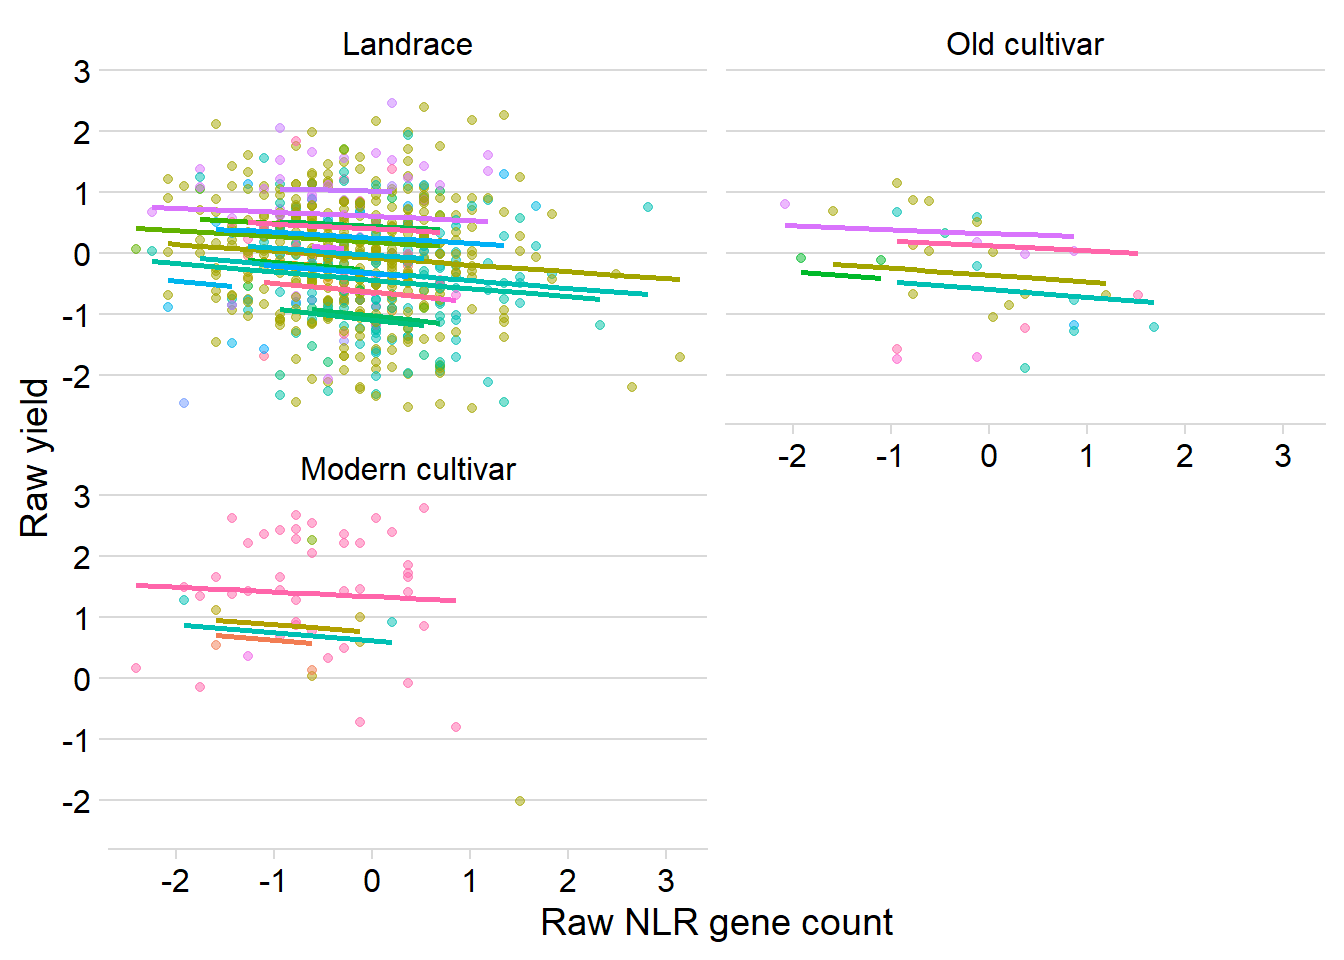
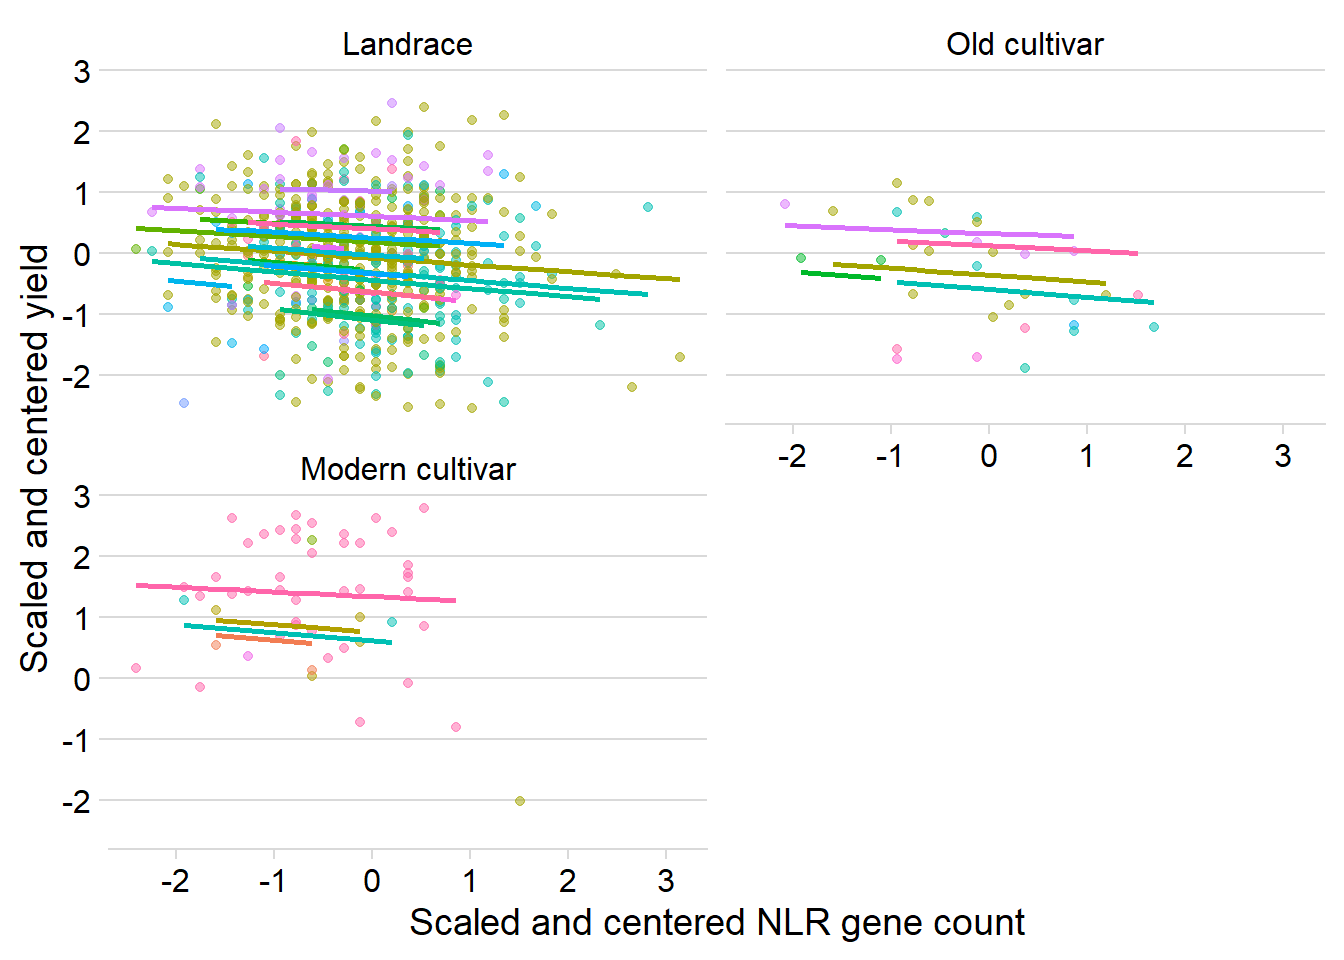
Build site.

Changed region(s): [[0.3125, 0.9375, 0.7812, 1.0], [0.0, 0.25, 0.0625, 0.7188]]

diff --git a/docs/yield_link.html b/docs/yield_link.html
@@ -413,7 +413,7 @@ div.tocify {
 <div class="tab-content">
 <div id="summary" class="tab-pane fade in active">
 <p>
-<strong>Last updated:</strong> 2020-11-02
+<strong>Last updated:</strong> 2020-11-04
 </p>
 <p>
 <strong>Checks:</strong> <span class="glyphicon glyphicon-ok text-success" aria-hidden="true"></span> 7 <span class="glyphicon glyphicon-exclamation-sign text-danger" aria-hidden="true"></span> 0
@@ -504,16 +504,16 @@ This reproducible <a href="http://rmarkdown.rstudio.com">R Markdown</a> analysis
 <div class="panel panel-default">
 <div class="panel-heading">
 <p class="panel-title">
-<a data-toggle="collapse" data-parent="#workflowr-checks" href="#strongRepositoryversionstrongahrefhttpsgithubcomphilippbayerRgeneanalysistreebe2f299c9104413593c977fd19f3be4790bf97cdtargetblankbe2f299a"> <span class="glyphicon glyphicon-ok text-success" aria-hidden="true"></span> <strong>Repository version:</strong> <a href="https://github.com/philippbayer/R_gene_analysis/tree/be2f299c9104413593c977fd19f3be4790bf97cd" target="_blank">be2f299</a> </a>
+<a data-toggle="collapse" data-parent="#workflowr-checks" href="#strongRepositoryversionstrongahrefhttpsgithubcomphilippbayerRgeneanalysistree2d9c3db82be5910c240bb90a3f36de6d7e5813a5targetblank2d9c3dba"> <span class="glyphicon glyphicon-ok text-success" aria-hidden="true"></span> <strong>Repository version:</strong> <a href="https://github.com/philippbayer/R_gene_analysis/tree/2d9c3db82be5910c240bb90a3f36de6d7e5813a5" target="_blank">2d9c3db</a> </a>
 </p>
 </div>
[2 lines of base64/hex data omitted]
 <div class="panel-body">
 <p>
 Great! You are using Git for version control. Tracking code development and connecting the code version to the results is critical for reproducibility.
 </p>
 <p>
-The results in this page were generated with repository version <a href="https://github.com/philippbayer/R_gene_analysis/tree/be2f299c9104413593c977fd19f3be4790bf97cd" target="_blank">be2f299</a>. See the <em>Past versions</em> tab to see a history of the changes made to the R Markdown and HTML files.
+The results in this page were generated with repository version <a href="https://github.com/philippbayer/R_gene_analysis/tree/2d9c3db82be5910c240bb90a3f36de6d7e5813a5" target="_blank">2d9c3db</a>. See the <em>Past versions</em> tab to see a history of the changes made to the R Markdown and HTML files.
 </p>
 <p>
 Note that you need to be careful to ensure that all relevant files for the analysis have been committed to Git prior to generating the results (you can use <code>wflow_publish</code> or <code>wflow_git_commit</code>). workflowr only checks the R Markdown file, but you know if there are other scripts or data files that it depends on. Below is the status of the Git repository when the results were generated:
@@ -530,8 +530,6 @@ Untracked files:
     Untracked:  data/CR15_R2.txt
     Untracked:  data/CR_14_R1.txt
     Untracked:  data/CR_14_R2.txt
-    Untracked:  data/Cultivar_vs_country.csv
-    Untracked:  data/Cultivar_vs_maturity_group.csv
     Untracked:  data/KS_R1.txt
     Untracked:  data/KS_R2.txt
     Untracked:  data/NBS_PAV.txt.gz
@@ -565,7 +563,6 @@ Untracked files:
     Untracked:  data/sudden.txt
     Untracked:  data/virus.txt
     Untracked:  data/yield.txt
-    Untracked:  output/GAPIT/
 
 </code></pre>
 <p>
@@ -604,6 +601,40 @@ Message
 </tr>
 </thead>
 <tbody>
+<tr>
+<td>
+Rmd
+</td>
+<td>
+<a href="https://github.com/philippbayer/R_gene_analysis/blob/2d9c3db82be5910c240bb90a3f36de6d7e5813a5/analysis/yield_link.Rmd" target="_blank">2d9c3db</a>
+</td>
+<td>
+Philipp Bayer
+</td>
+<td>
+2020-11-04
+</td>
+<td>
+wflow_publish(c(“analysis/index.Rmd”, “analysis/yield_link.Rmd”))
+</td>
+</tr>
+<tr>
+<td>
+html
+</td>
+<td>
+<a href="https://rawcdn.githack.com/philippbayer/R_gene_analysis/f34dd483942b9554f0f122cc75a9bfd7c4a17b9d/docs/yield_link.html" target="_blank">f34dd48</a>
+</td>
+<td>
+Philipp Bayer
+</td>
+<td>
+2020-11-02
+</td>
+<td>
+Build site.
+</td>
+</tr>
 <tr>
 <td>
 Rmd
@@ -1377,8 +1408,8 @@ boundary (singular) fit: see ?isSingular</code></pre>
       geom_line(data = cbind(yield_country_nbs_joined_groups, pred = predict(mixed.lmer)), aes(y = pred), size = 1) + 
       theme_minimal_hgrid() +
       theme(legend.position = &quot;none&quot;) +
-      xlab(&#39;Raw NLR gene count&#39;) +
-      ylab(&#39;Raw yield&#39;)</code></pre>
+      xlab(&#39;Scaled and centered NLR gene count&#39;) +
+      ylab(&#39;Scaled and centered yield&#39;)</code></pre>
 <p><img src="figure/yield_link.Rmd/unnamed-chunk-46-1.png" width="672" style="display: block; margin: auto;" /> Quite similar, mostly downwards trajectories for each country.</p>
 <p>And now both random slopes:</p>
 <pre class="r"><code>mixed.lmer &lt;- lmer(Yield2 ~ presences2 + (1 + presences2|`Group in violin table`) + (1 + presences2|Country), data=yield_country_nbs_joined_groups)
@@ -1412,7 +1443,16 @@ presences2  -0.23848    0.14300  1.96304  -1.668    0.240
 Correlation of Fixed Effects:
            (Intr)
 presences2 0.231 </code></pre>
-<p>Yeah, nah</p>
+<pre class="r"><code>ggplot(yield_country_nbs_joined_groups, aes(x = presences2, y = Yield2, colour = Country)) +
+      facet_wrap(~`Group in violin table`, nrow=2) +   # a panel for each mountain range
+      geom_point(alpha = 0.5) +
+      theme_classic() +
+      geom_line(data = cbind(yield_country_nbs_joined_groups, pred = predict(mixed.lmer)), aes(y = pred), size = 1) + 
+      theme_minimal_hgrid() +
+      theme(legend.position = &quot;none&quot;) +
+      xlab(&#39;Scaled and centered NLR gene count&#39;) +
+      ylab(&#39;Scaled and centered yield&#39;)</code></pre>
+<p><img src="figure/yield_link.Rmd/unnamed-chunk-48-1.png" width="672" style="display: block; margin: auto;" /> Yeah, nah</p>
 </div>
 </div>
 <div id="oil-1" class="section level3">

diff --git a/docs/index.html b/docs/index.html
@@ -333,7 +333,7 @@ $(document).ready(function () {
 <div class="tab-content">
 <div id="summary" class="tab-pane fade in active">
 <p>
-<strong>Last updated:</strong> 2020-11-02
+<strong>Last updated:</strong> 2020-11-04
 </p>
 <p>
 <strong>Checks:</strong> <span class="glyphicon glyphicon-ok text-success" aria-hidden="true"></span> 2 <span class="glyphicon glyphicon-exclamation-sign text-danger" aria-hidden="true"></span> 0
@@ -364,16 +364,16 @@ This reproducible <a href="http://rmarkdown.rstudio.com">R Markdown</a> analysis
 <div class="panel panel-default">
 <div class="panel-heading">
 <p class="panel-title">
-<a data-toggle="collapse" data-parent="#workflowr-checks" href="#strongRepositoryversionstrongahrefhttpsgithubcomphilippbayerRgeneanalysistree596689b1c0774189407e54e3dcb12e69cc9c3051targetblank596689ba"> <span class="glyphicon glyphicon-ok text-success" aria-hidden="true"></span> <strong>Repository version:</strong> <a href="https://github.com/philippbayer/R_gene_analysis/tree/596689b1c0774189407e54e3dcb12e69cc9c3051" target="_blank">596689b</a> </a>
+<a data-toggle="collapse" data-parent="#workflowr-checks" href="#strongRepositoryversionstrongahrefhttpsgithubcomphilippbayerRgeneanalysistree2d9c3db82be5910c240bb90a3f36de6d7e5813a5targetblank2d9c3dba"> <span class="glyphicon glyphicon-ok text-success" aria-hidden="true"></span> <strong>Repository version:</strong> <a href="https://github.com/philippbayer/R_gene_analysis/tree/2d9c3db82be5910c240bb90a3f36de6d7e5813a5" target="_blank">2d9c3db</a> </a>
 </p>
 </div>
[2 lines of base64/hex data omitted]
 <div class="panel-body">
 <p>
 Great! You are using Git for version control. Tracking code development and connecting the code version to the results is critical for reproducibility.
 </p>
 <p>
-The results in this page were generated with repository version <a href="https://github.com/philippbayer/R_gene_analysis/tree/596689b1c0774189407e54e3dcb12e69cc9c3051" target="_blank">596689b</a>. See the <em>Past versions</em> tab to see a history of the changes made to the R Markdown and HTML files.
+The results in this page were generated with repository version <a href="https://github.com/philippbayer/R_gene_analysis/tree/2d9c3db82be5910c240bb90a3f36de6d7e5813a5" target="_blank">2d9c3db</a>. See the <em>Past versions</em> tab to see a history of the changes made to the R Markdown and HTML files.
 </p>
 <p>
 Note that you need to be careful to ensure that all relevant files for the analysis have been committed to Git prior to generating the results (you can use <code>wflow_publish</code> or <code>wflow_git_commit</code>). workflowr only checks the R Markdown file, but you know if there are other scripts or data files that it depends on. Below is the status of the Git repository when the results were generated:
@@ -382,6 +382,7 @@ Note that you need to be careful to ensure that all relevant files for the analy
 Ignored files:
     Ignored:    .Rhistory
     Ignored:    .Rproj.user/
+    Ignored:    analysis/figure/
 
 Untracked files:
     Untracked:  data/Brec_R1.txt
@@ -390,8 +391,6 @@ Untracked files:
     Untracked:  data/CR15_R2.txt
     Untracked:  data/CR_14_R1.txt
     Untracked:  data/CR_14_R2.txt
-    Untracked:  data/Cultivar_vs_country.csv
-    Untracked:  data/Cultivar_vs_maturity_group.csv
     Untracked:  data/KS_R1.txt
     Untracked:  data/KS_R2.txt
     Untracked:  data/NBS_PAV.txt.gz
@@ -425,7 +424,6 @@ Untracked files:
     Untracked:  data/sudden.txt
     Untracked:  data/virus.txt
     Untracked:  data/yield.txt
-    Untracked:  output/GAPIT/
 
 </code></pre>
 <p>
@@ -464,6 +462,40 @@ Message
 </tr>
 </thead>
 <tbody>
+<tr>
+<td>
+Rmd
+</td>
+<td>
+<a href="https://github.com/philippbayer/R_gene_analysis/blob/eae4c4983dcaa8ae2f0f0e88a66504736b997027/analysis/index.Rmd" target="_blank">eae4c49</a>
+</td>
+<td>
+Philipp Bayer
+</td>
+<td>
+2020-11-02
+</td>
+<td>
+Broken link
+</td>
+</tr>
+<tr>
+<td>
+html
+</td>
+<td>
+<a href="https://rawcdn.githack.com/philippbayer/R_gene_analysis/cfa0225e8d96544e0ce9ed22f379797c4a2216a1/docs/index.html" target="_blank">cfa0225</a>
+</td>
+<td>
+Philipp Bayer
+</td>
+<td>
+2020-11-02
+</td>
+<td>
+Build site.
+</td>
+</tr>
 <tr>
 <td>
 Rmd
@@ -768,7 +800,7 @@ Start workflowr project.
 <li><p>Comparing TEs with variable R-genes: TOCOME</p></li>
 <li><p>Running GWAS with NLR PAV: <a href="gwas.html">link</a> Under construction.</p></li>
 <li><p>Comparing SNP-based phylogenies with NLR PAV: <a href="phylo.html">link</a> Under construction.</p></li>
-<li><p>Linking yield with NLR gene counts: <a href="yield_link.Rmd">link</a>. Finished.</p></li>
+<li><p>Linking yield with NLR gene counts: <a href="yield_link.html">link</a>. Finished.</p></li>
 </ol>
 
 
